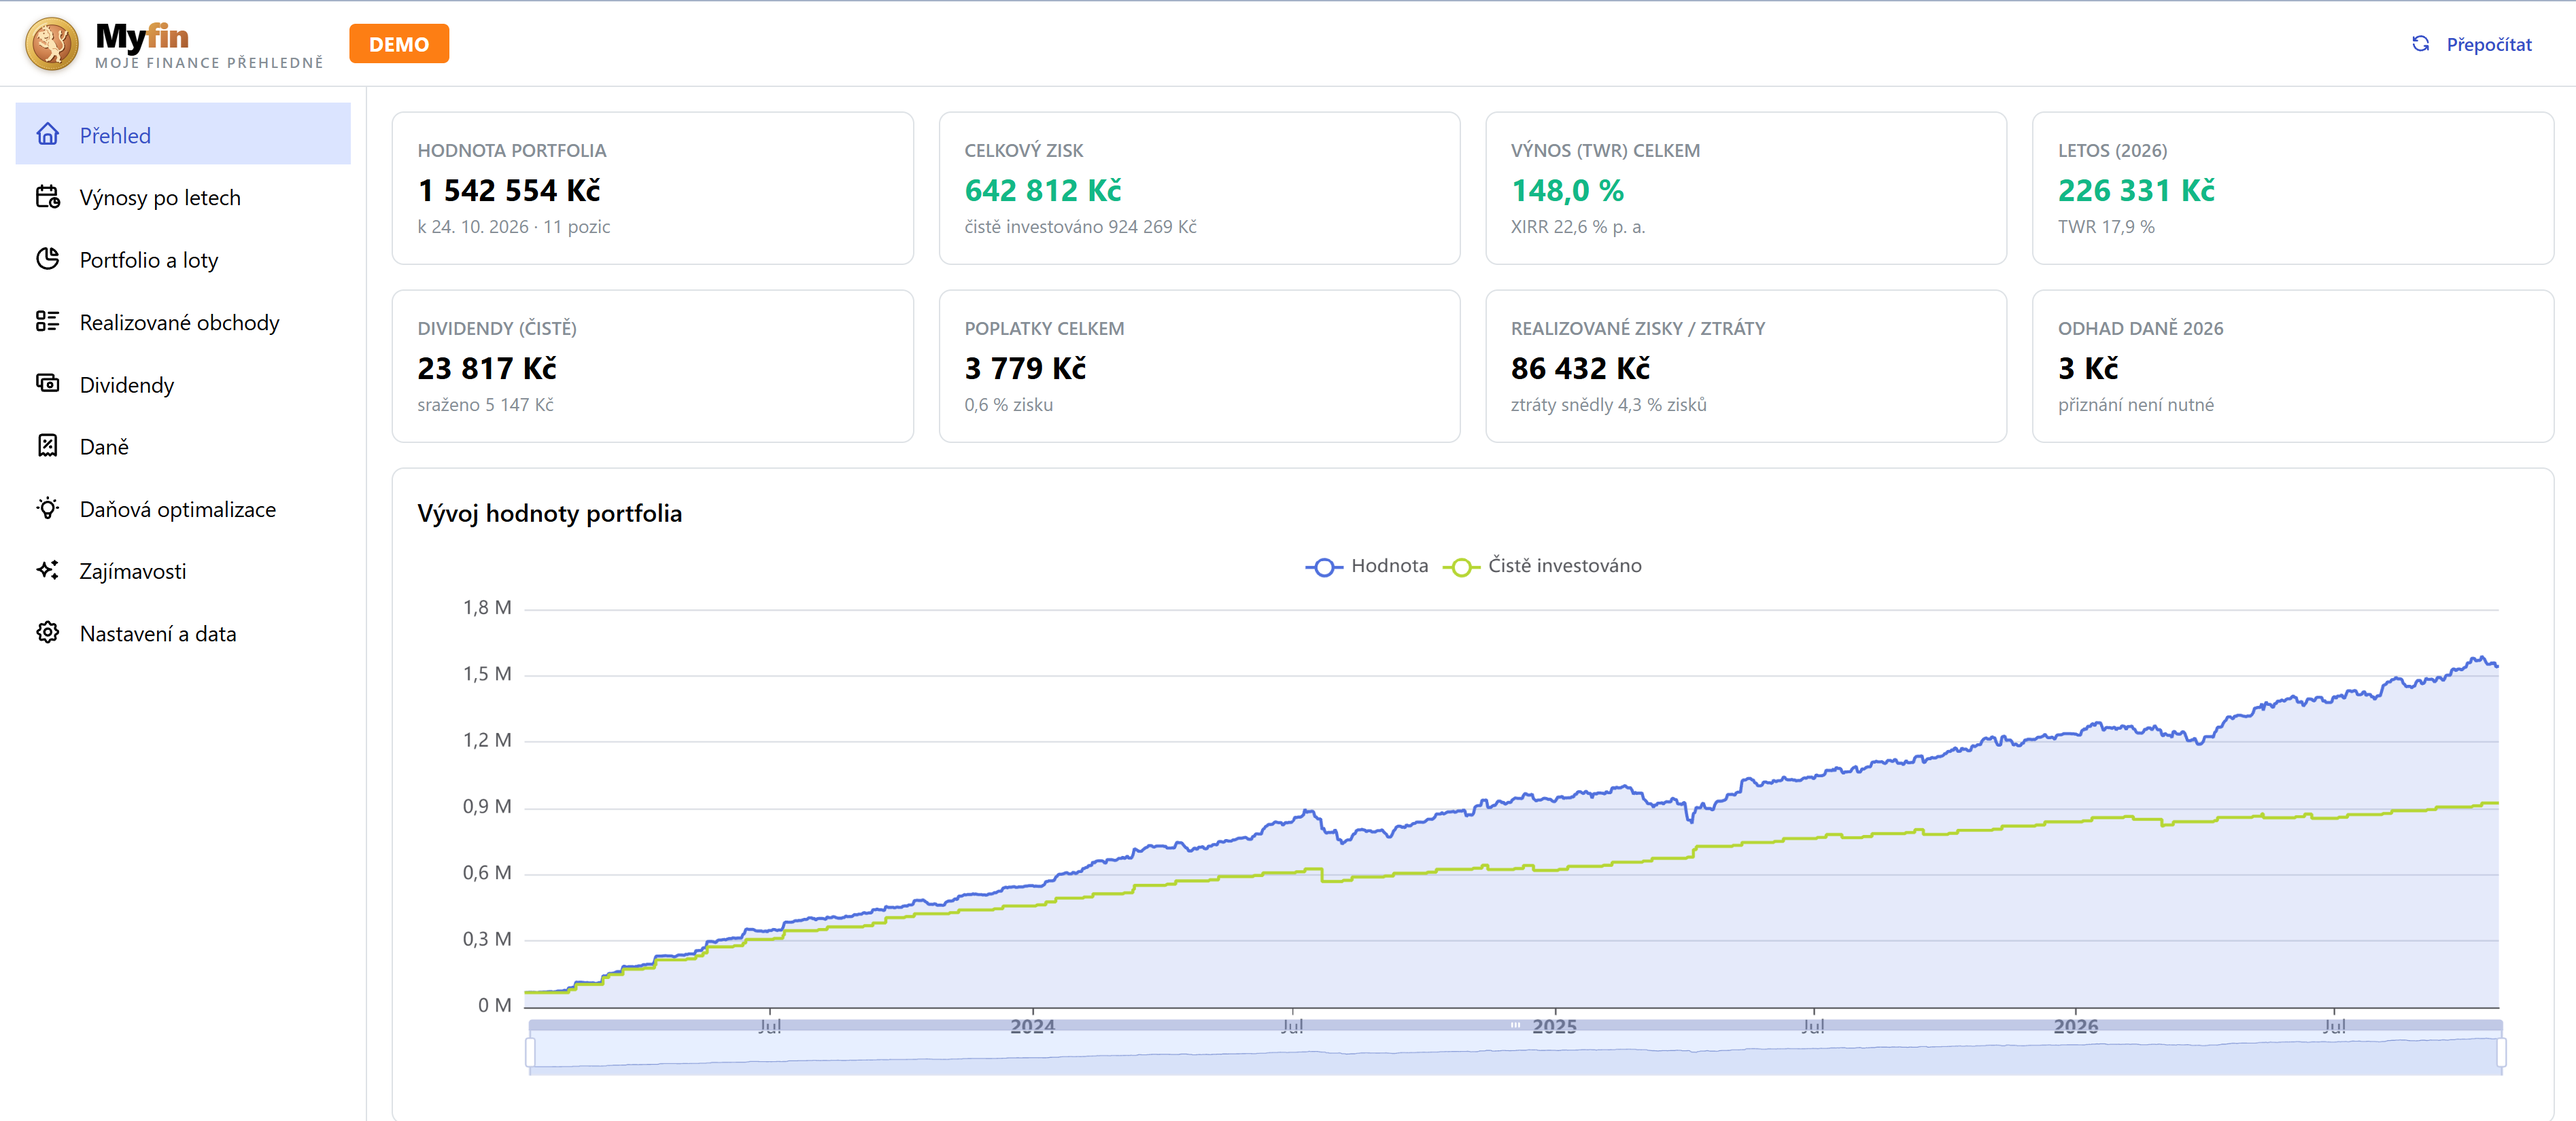
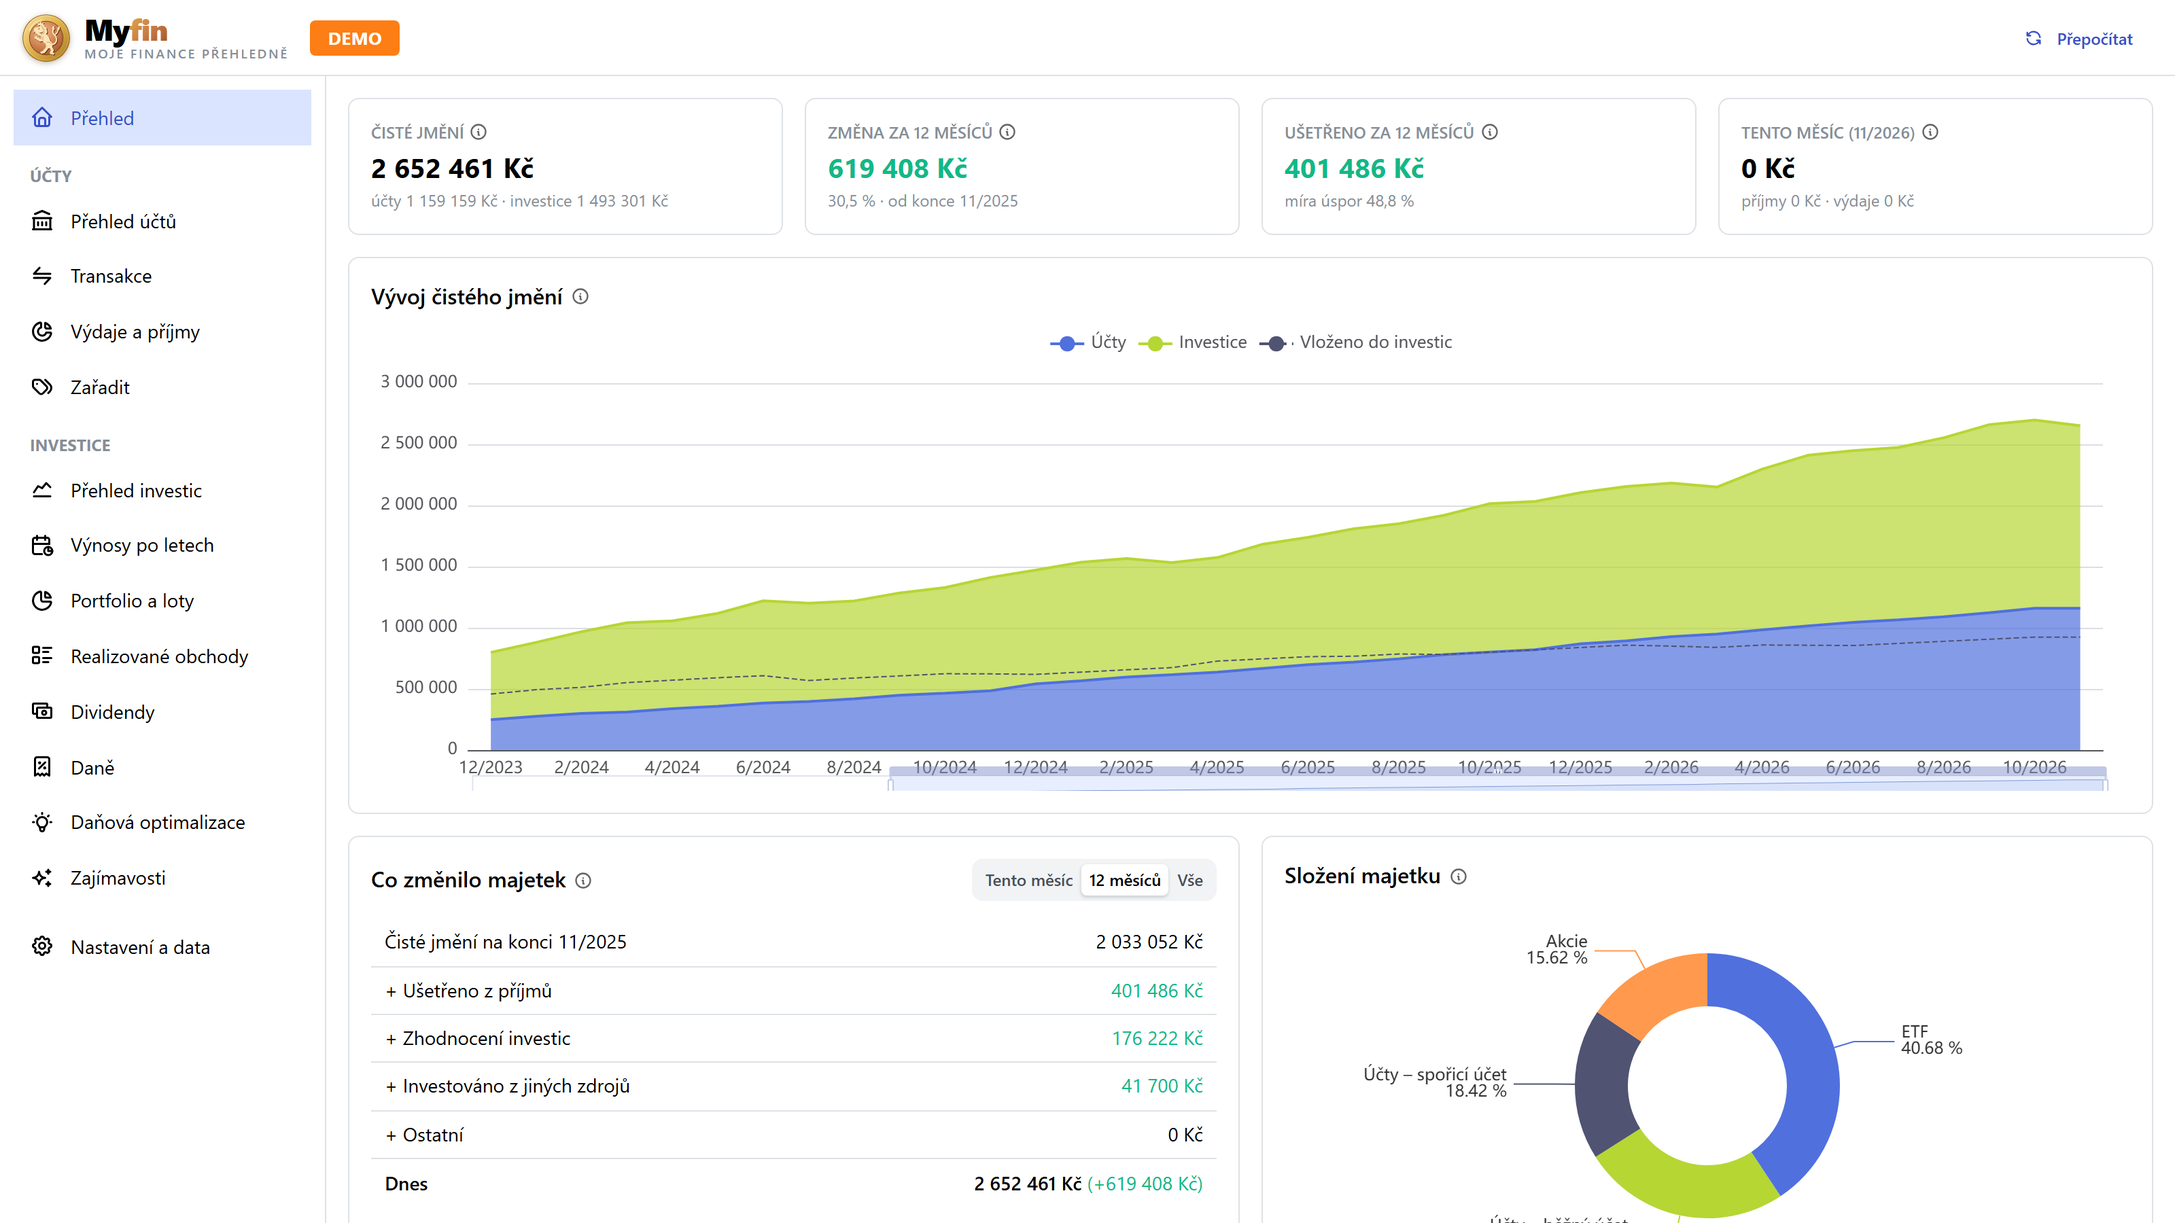
Describe the accounts module in the README and refresh screenshots
- README covers bank accounts (Fio, KB, Raiffeisenbank), the combined
  start page, demo bank statements and local-only processing of statements.
- New start page screenshot and a spending and income screenshot, both
  taken from the bundled demo data.

diff --git a/README.md b/README.md
@@ -1,8 +1,23 @@
 # Myfin – moje finance přehledně
 
-Lokální aplikace pro přehled investic a daní z exportů brokerů **Degiro** a **XTB**.
+Lokální aplikace pro přehled financí: bankovní účty z výpisů **Fio banky**, **Komerční banky** a **Raiffeisenbank** a investice a daně z exportů brokerů **Degiro** a **XTB**.
 
-![Přehled aplikace Myfin s ukázkovými daty](docs/screenshot.png)
+![Úvodní stránka aplikace Myfin s ukázkovými daty](docs/screenshot.png)
+
+Úvodní stránka spojuje oba moduly: vývoj čistého jmění (účty + investice), co ho za zvolené období změnilo (ušetřeno z příjmů, zhodnocení investic, investováno z jiných zdrojů, nově přidané účty) a složení majetku.
+
+## Účty
+
+![Výdaje a příjmy podle kategorií s ukázkovými daty](docs/screenshot-accounts.png)
+
+- **Přehled účtů:** zůstatky, příjmy, výdaje, míra úspor a investovaná částka za posledních 12 měsíců, vývoj zůstatků po účtech, bankách nebo typech produktu.
+- **Transakce:** všechny pohyby ze všech účtů s hledáním, filtrem období a protistrany a změnou kategorie přímo v tabulce.
+- **Výdaje a příjmy:** rozpad podle kategorií a měsíců, největší protistrany, průměr za měsíc (i bez daní).
+- **Zařadit:** nezařazené transakce seskupené podle protistrany; zařazení skupiny rovnou vytvoří pravidlo pro další pohyby.
+- Kategorizace probíhá lokálně v tomto pořadí: ruční zařazení, vaše pravidla, převody mezi vlastními účty a do investic, typ bankovní transakce, vestavěný slovník obchodníků, návrh podle podobných transakcí. Převody mezi vlastními účty se do příjmů a výdajů nepočítají.
+- V **Nastavení** účtů lze zadat název, typ produktu, zůstatek (u účtů, jejichž výpisy ho neobsahují), skrýt účet, označit vlastní a investiční účty a spravovat kategorie a pravidla.
+
+## Investice a daně
 
 - Výnosy po letech v % (TWR, MWR/XIRR) i v Kč a jejich struktura: realizované a nerealizované zisky, dividendy, srážková daň, úroky a poplatky.
 - Portfolio a nákupní loty (FIFO), postup k časovému testu 3 roky.
@@ -104,17 +119,18 @@ Soubory z exportní složky, které na rozhodnutí čekají, jsou v Nastavení o
 
 ### Demo data
 
-Aplikace obsahuje ukázkové exporty ve složce `demo/`: smyšlené portfolio u Degiro (EUR) a XTB (CZK) od roku 2023. Obchody jsou na skutečných instrumentech (Apple, NVIDIA včetně splitu 10:1, ČEZ, Komerční banka, ETF VWCE…) za skutečné historické ceny. Obsahují dividendy z několika zemí, prodeje před časovým testem i po něm a ztrátový prodej.
+Aplikace obsahuje ukázkové exporty ve složce `demo/`: smyšlené portfolio u Degiro (EUR) a XTB (CZK) od roku 2023. Obchody jsou na skutečných instrumentech (Apple, NVIDIA včetně splitu 10:1, ČEZ, Komerční banka, ETF VWCE…) za skutečné historické ceny. Obsahují dividendy z několika zemí, prodeje před časovým testem i po něm a ztrátový prodej. K tomu smyšlené výpisy běžných a spořicích účtů u Fio, KB a Raiffeisenbank (`demo/fio`, `demo/kb`, `demo/rb`).
 
 - Přepnutí: **Nastavení a data → Zdroj dat → Demo data** (nebo tlačítko na Přehledu, dokud nemáte nahrané exporty). V hlavičce se pak zobrazí štítek **DEMO**.
 - Demo režim má vlastní nastavení (`data/settings.demo.json`), takže se v něm neukáží vaše osobní údaje a vaše nastavení zůstane beze změny. Nahrané exporty se vždy uloží mezi vaše vlastní.
-- Přegenerování (stáhne aktuální ceny z Yahoo Finance): `npm run demo:generate [YYYY-MM-DD]`.
+- Přegenerování (stáhne aktuální ceny z Yahoo Finance): `npm run demo:generate [YYYY-MM-DD]`; bankovní výpisy (bez přístupu k internetu): `npm run demo:banks [YYYY-MM-DD]`.
 
 ## Soukromí
 
 - Všechna data zůstávají v počítači, ve složkách `exports/` a `data/` (u nainstalované aplikace v `%APPDATA%\myfin`, na macOS v `~/Library/Application Support/myfin`). Obě složky jsou v `.gitignore`.
 - Server poslouchá jen na `127.0.0.1`.
 - Z internetu se stahují pouze kurzy ČNB a historické ceny z Yahoo Finance; posílají se jen ISIN, tickery a názvy instrumentů.
+- Bankovní výpisy (CSV i PDF) se čtou a kategorizují jen lokálně; nastavení účtů, kategorie a pravidla jsou v `data/accounts.json`.
 
 ## Metodika (stručně)
 
@@ -140,7 +156,7 @@ npm run build && npm start
 
 Struktura:
 
-- `src/core` – parsery, FX, FIFO, daňové výpočty a analytika (čisté funkce)
+- `src/core` – parsery, FX, FIFO, daňové výpočty a analytika (čisté funkce); `src/core/accounts` – bankovní výpisy, kategorizace a statistiky účtů
 - `src/server` – Fastify API, cache ČNB a Yahoo, orchestrace
 - `src/web` – React + Mantine + ECharts
 - `tests` – testy pouze se smyšlenými daty
